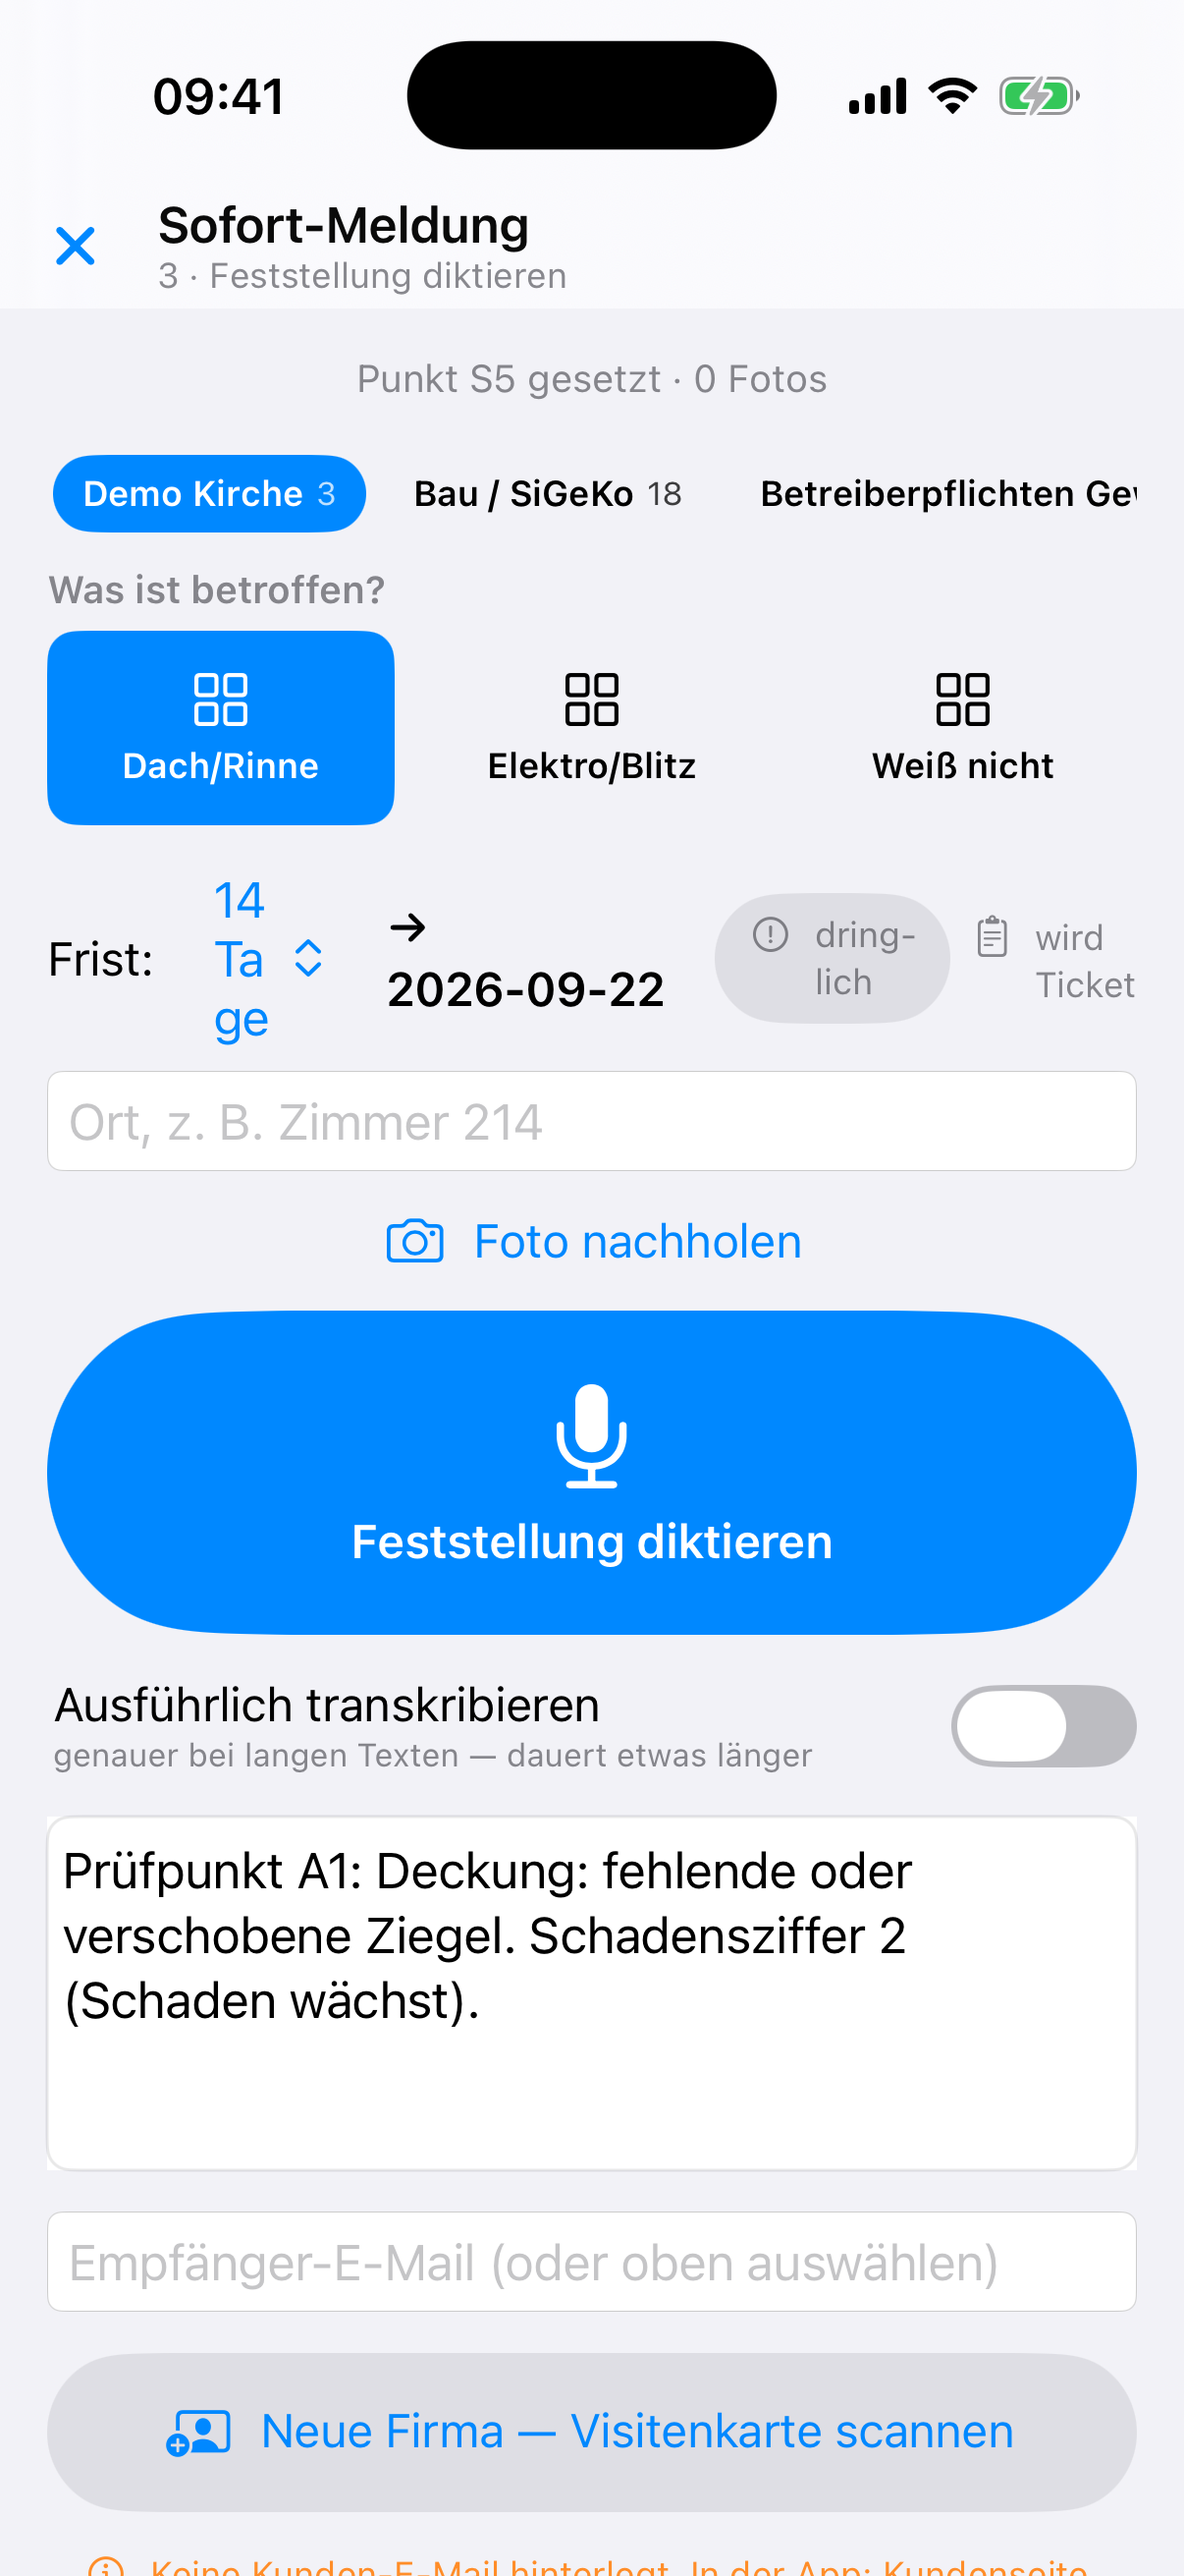
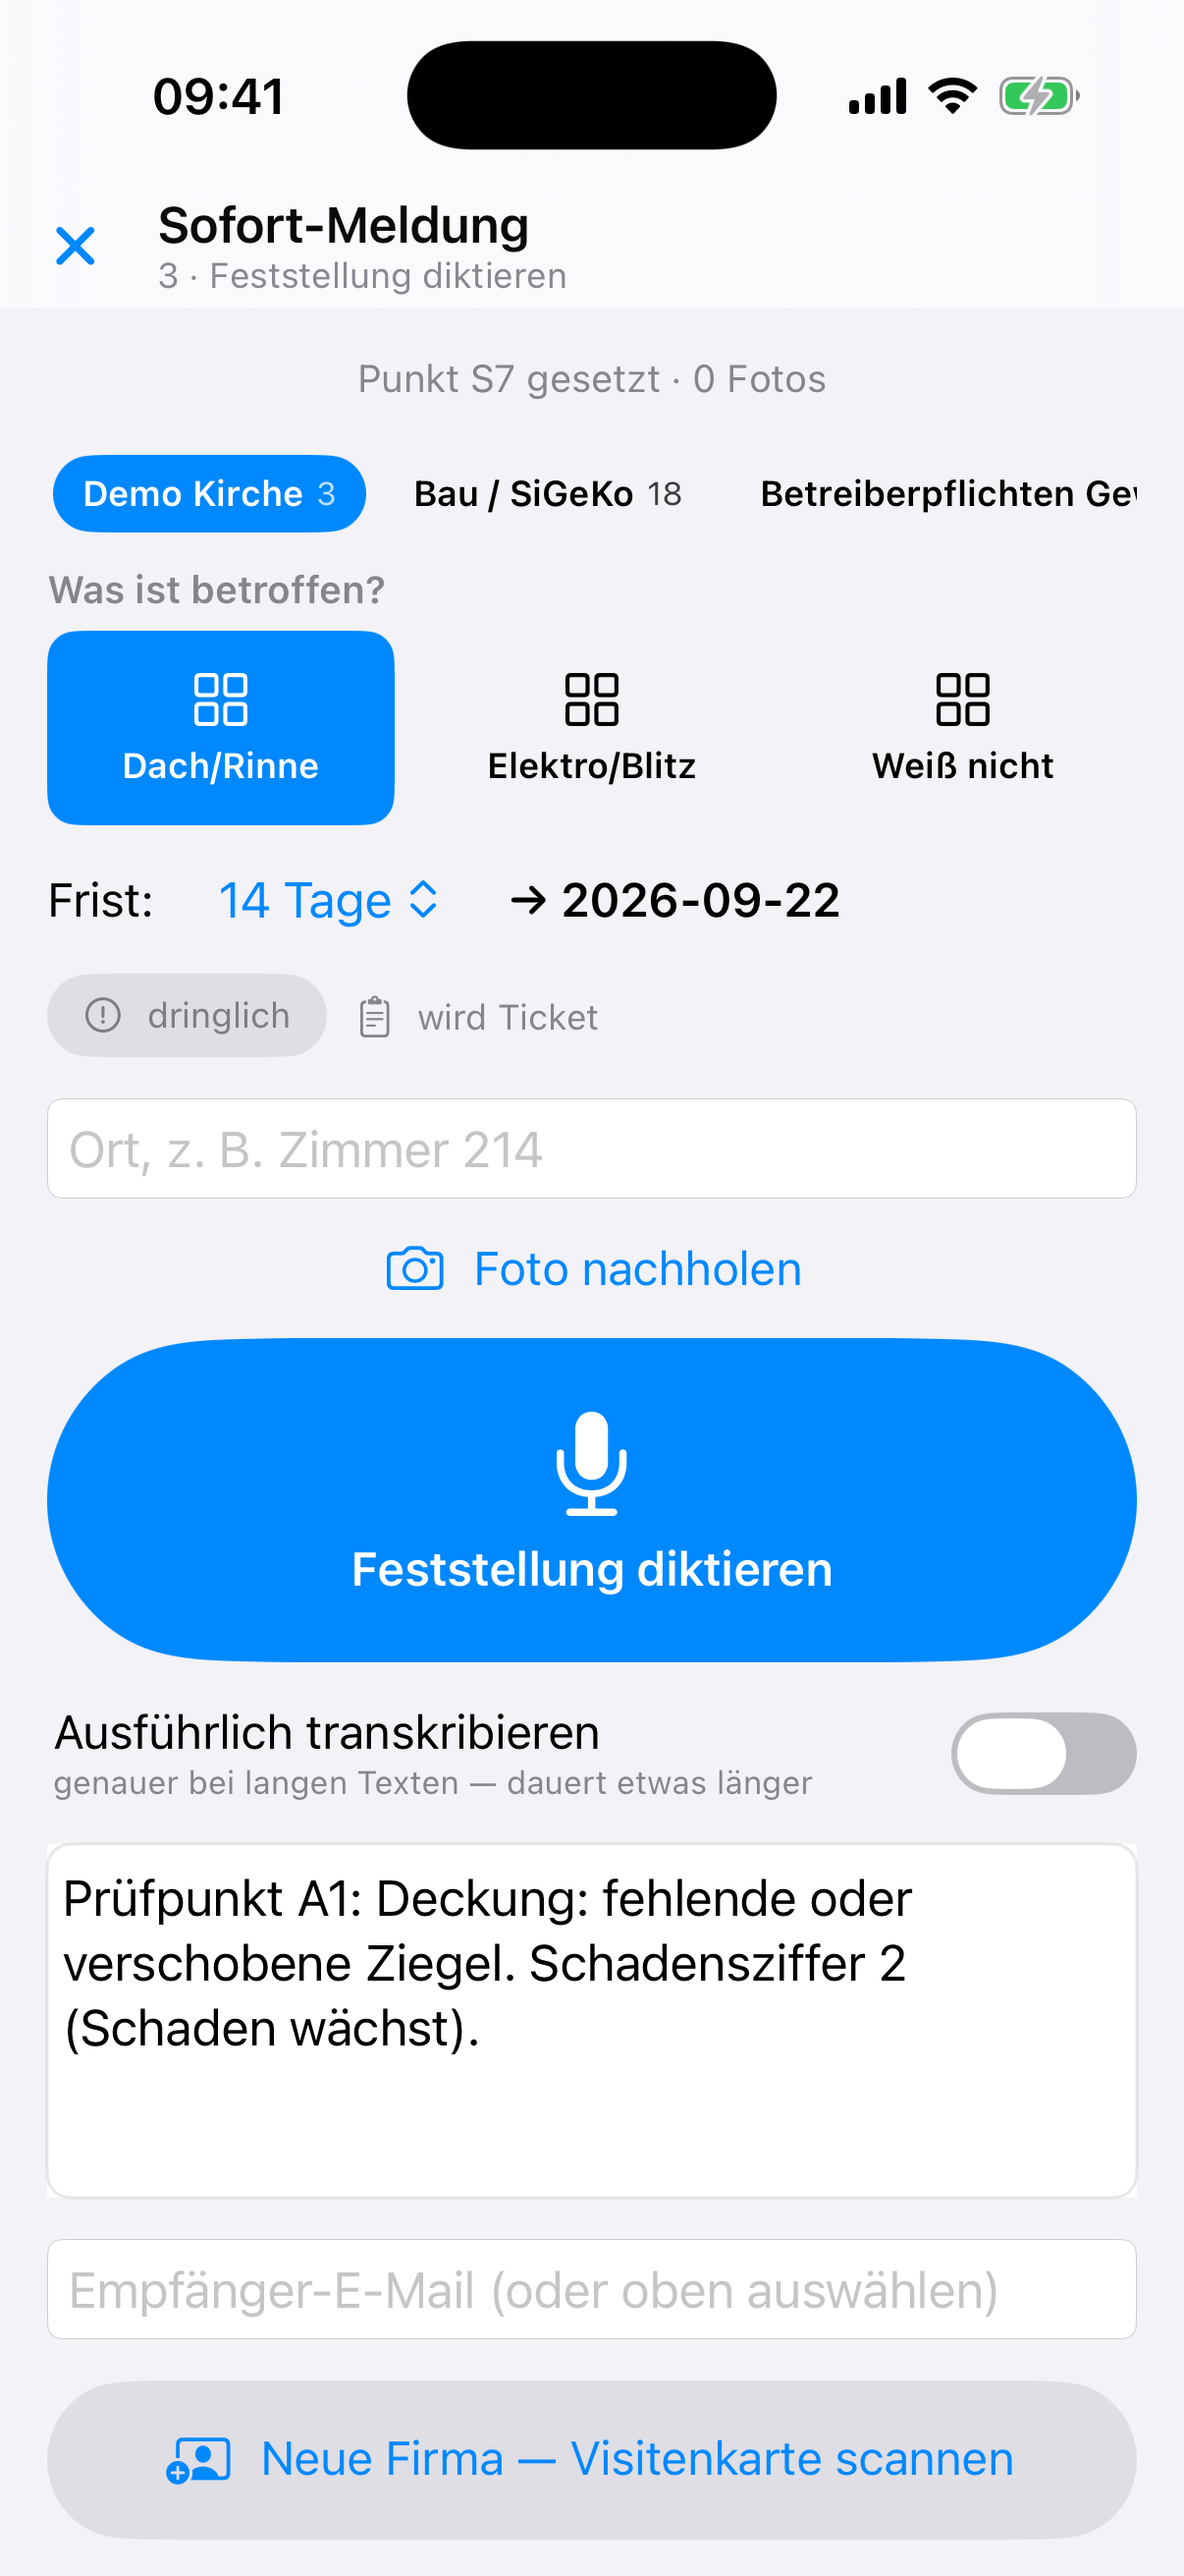
Name entschieden: rundok.de bleibt · Screenshot mit gerichteter Frist-Zeile
03-meldung.png neu aufgenommen mit iOS Build 157 — die Frist-Zeile brach vorher als
'14 / Ta / ge' um. AUFTRAG-Website.md: Punkt Name/Domain von 'offen' auf entschieden.

diff --git a/AUFTRAG-Website.md b/AUFTRAG-Website.md
@@ -78,12 +78,10 @@ beschreibend („Kachelwand der Sofort-Meldung mit 18 Symptom-Kacheln“). Keine
 über die Kartenkante hinaus. Die Bilder sind 1206 × 2622 Pixel; auf der Seite auf 300 bis
 420 Pixel Breite einbinden, damit nichts flimmert.
 
-### 2.2 Drei Entscheidungen von Bernd
+### 2.2 Entscheidungen
 
-1. **Name und Domain.** Im Repo steht durchgehend `rundok.de`, das Logo ist RUN + DOK.
-   Bernd spricht von „run-dog.de“. Solange das nicht entschieden ist: nichts umbenennen.
-   Fällt die Entscheidung auf Run-Dog, sind Domain, Logo-SVGs, `.htaccess`, `README.md`,
-   `sitemap.xml`, Impressum und alle Fließtexte anzupassen.
+1. **Name und Domain: entschieden.** Es bleibt **rundok.de**, Marke RUNDOK, Logo RUN + DOK
+   (Bernd am 08.09.2026). Nichts umbenennen; „run-dog“ war nur die Aussprache im Diktat.
 2. **„Angebot binnen 48 Stunden“** im Preisteil ist eine Selbstverpflichtung ohne
    Vorbehalt. Entweder halten wollen oder auf „innerhalb weniger Tage“ ändern.
 3. **Prüfstand-Kachel** steht im Reiter „Cockpit“, obwohl der Kunde dort klickt. Seit es
